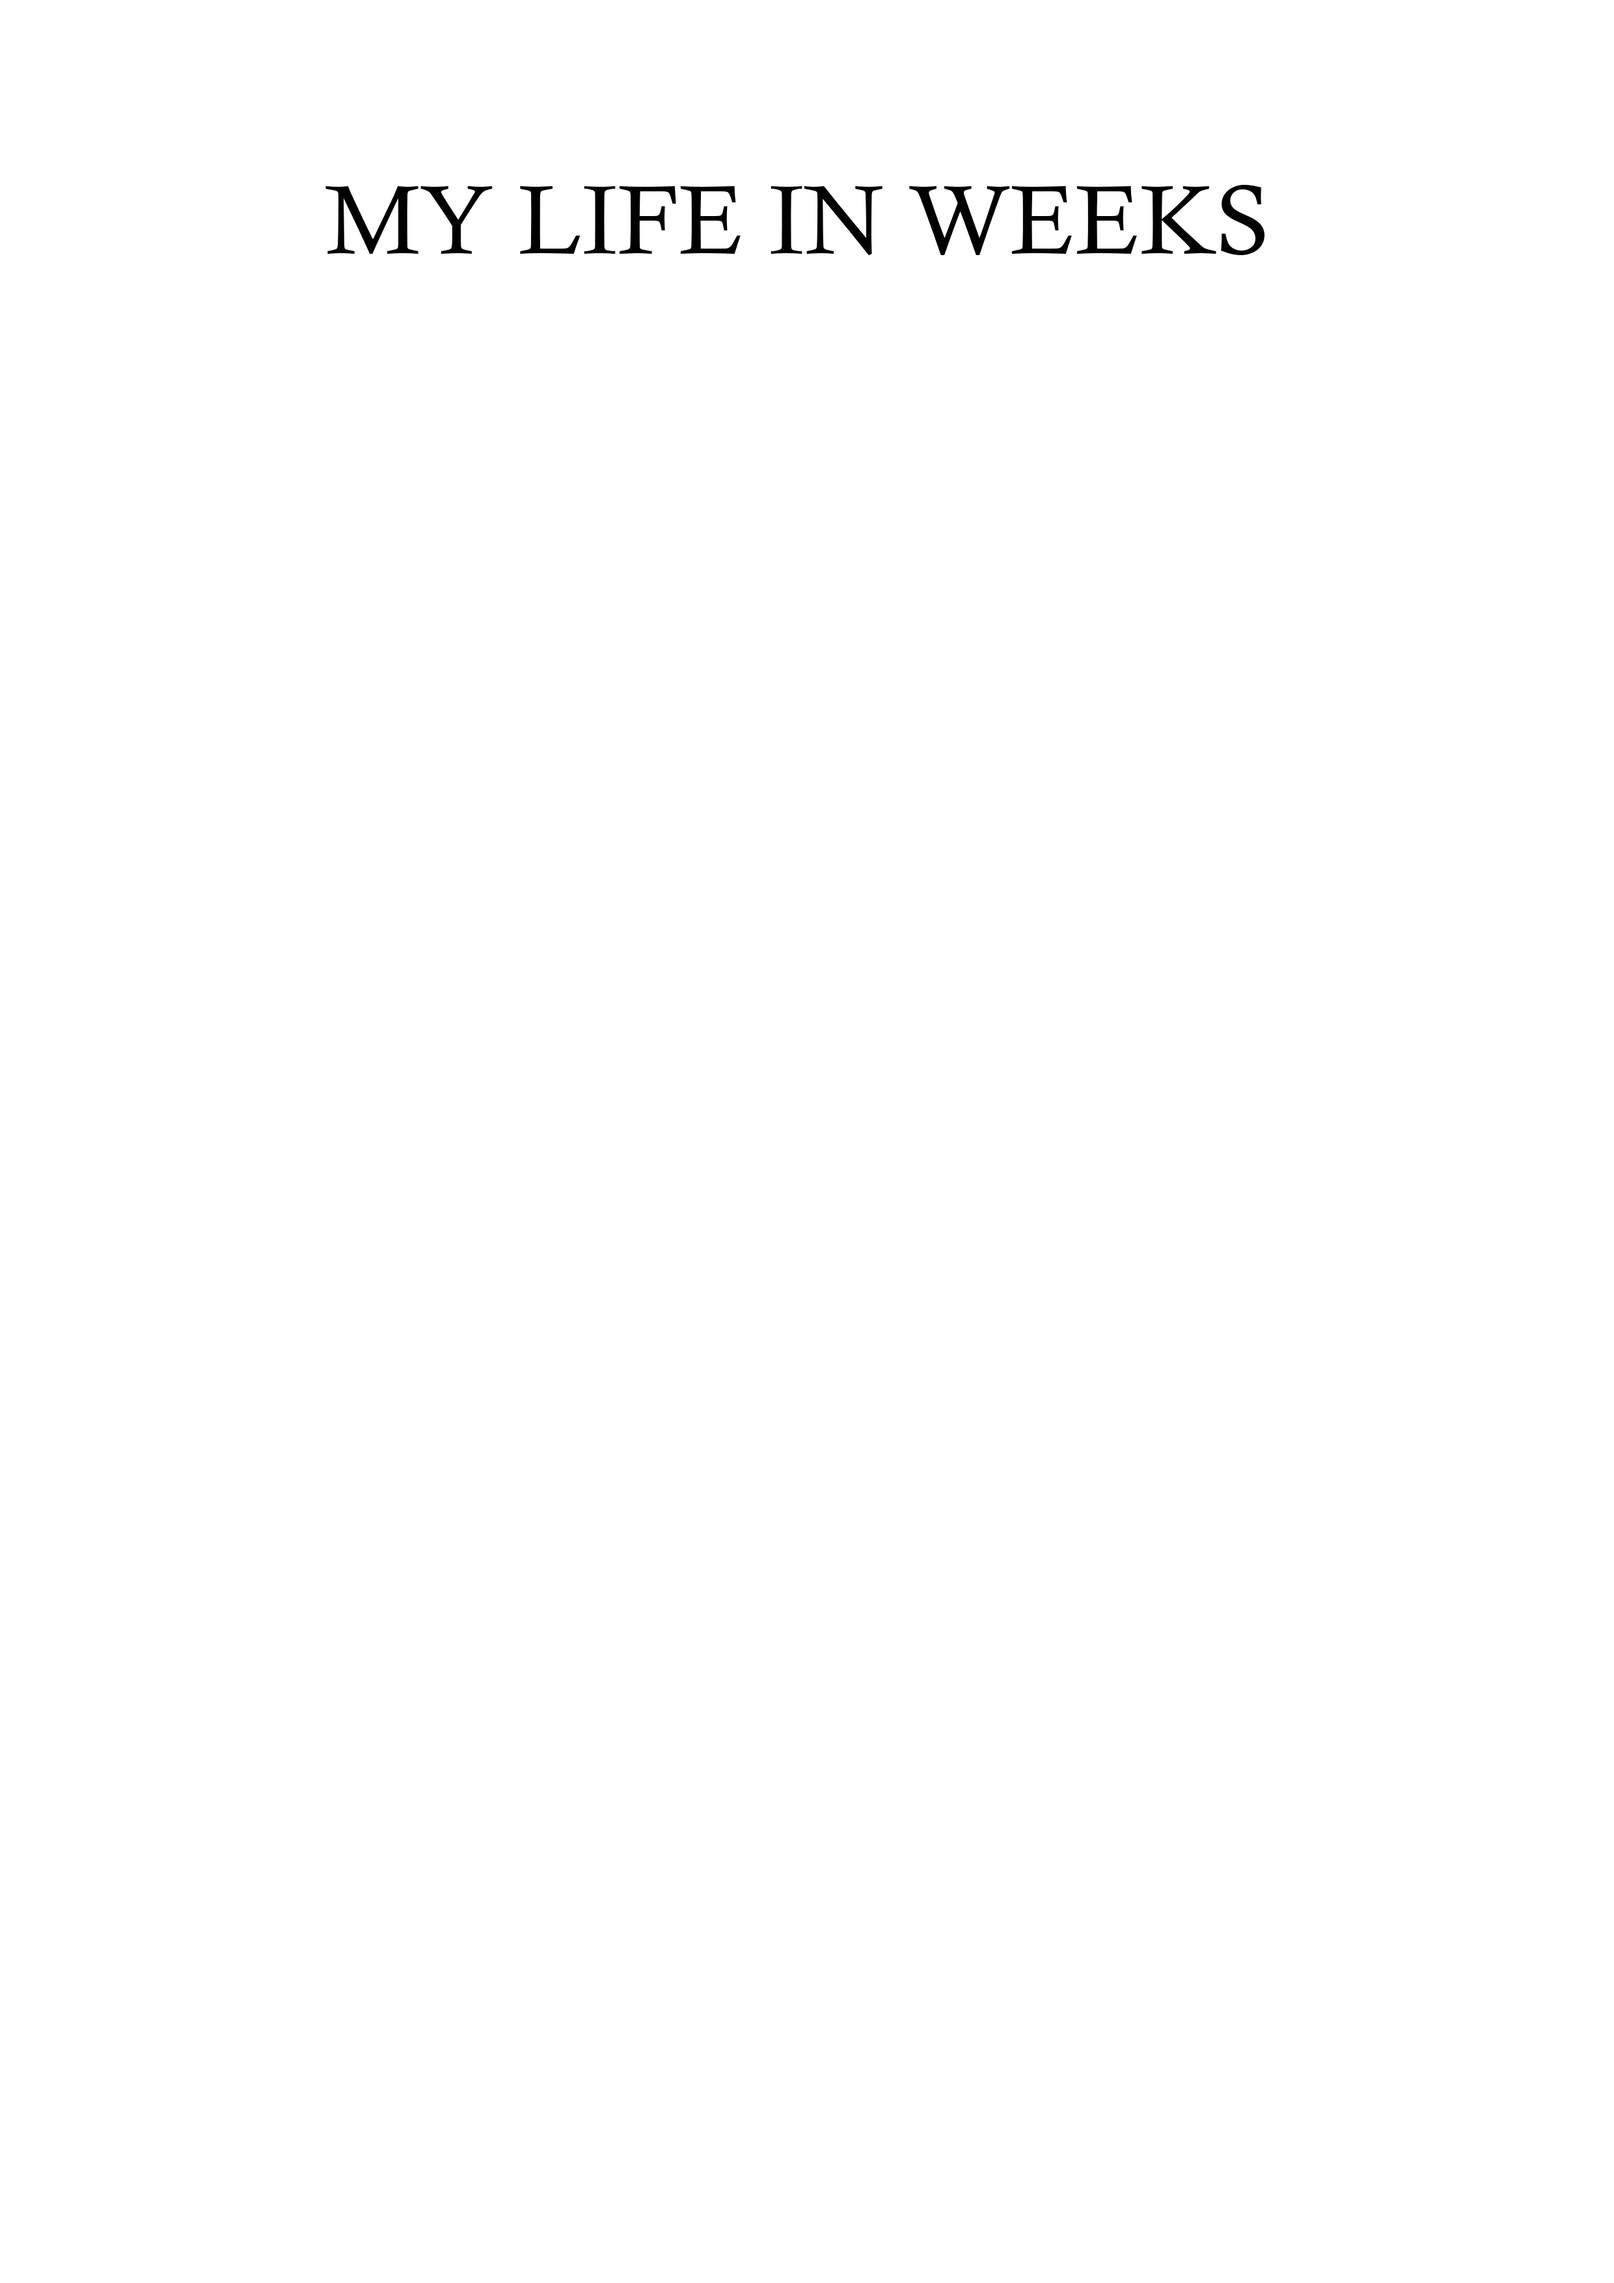
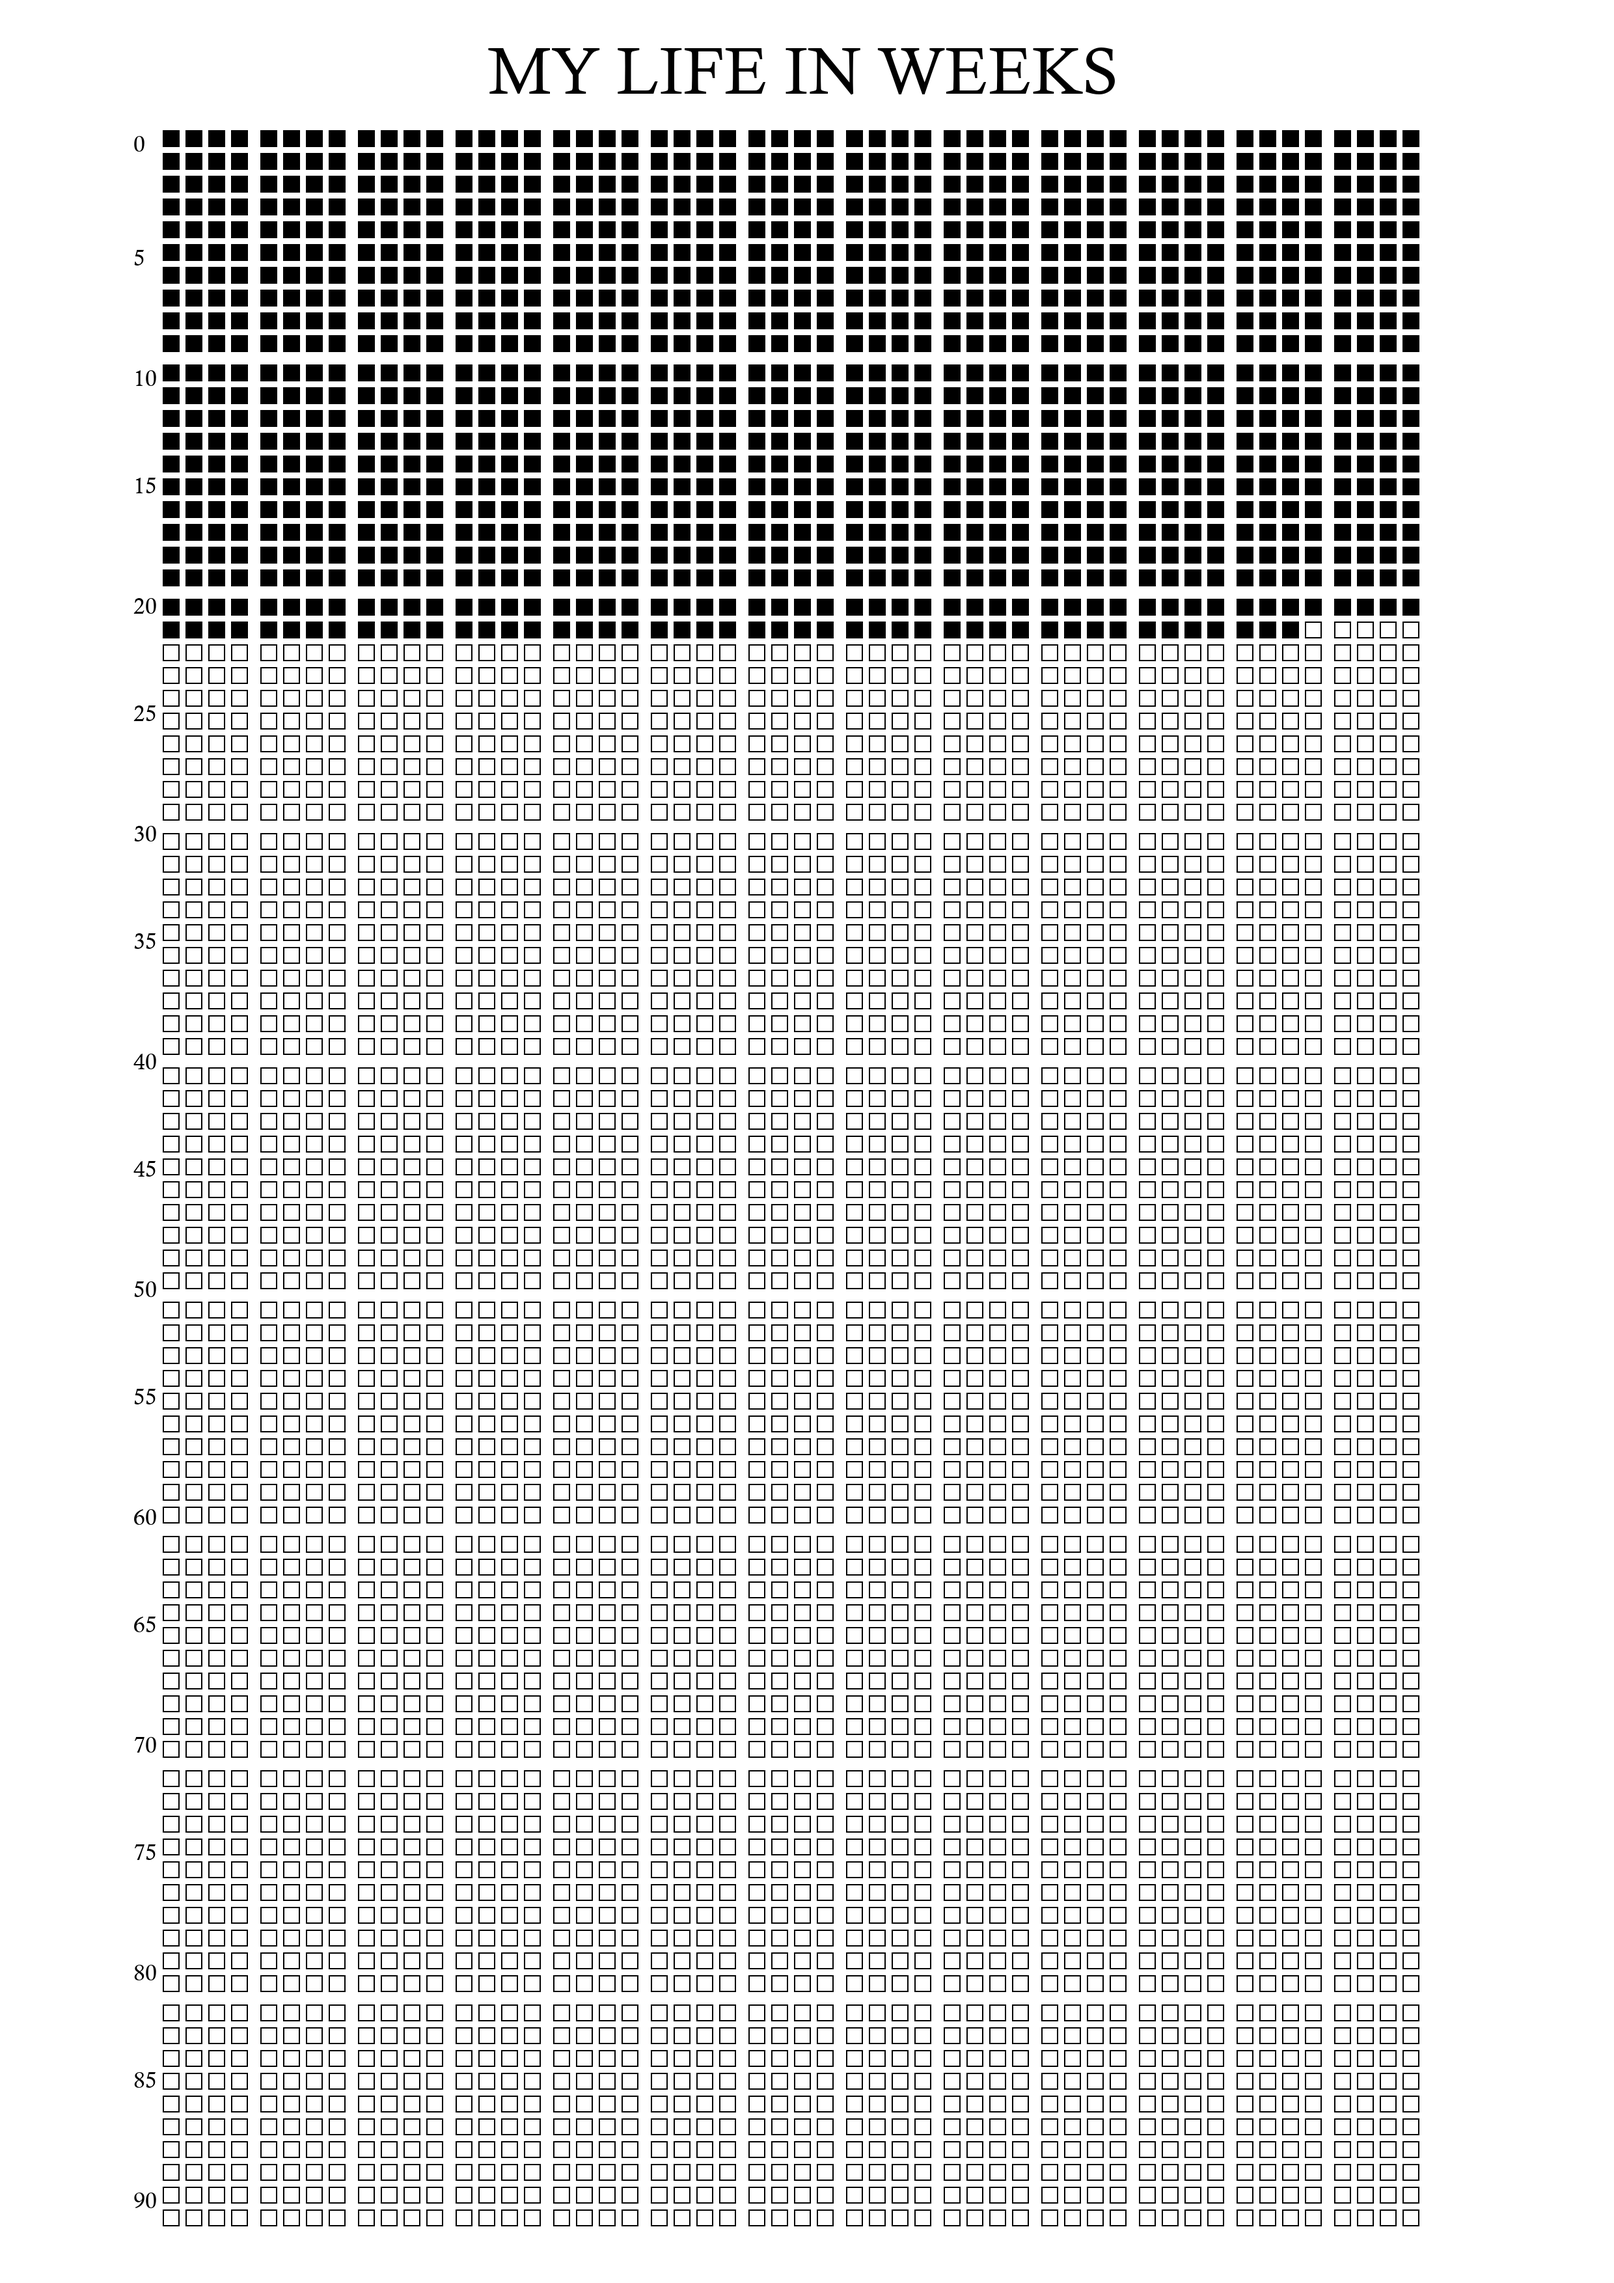
Added squares and numbers

Changed region(s): [[0.0931, 0.0, 0.9004, 0.9632]]

diff --git a/Models/LifeCalendar.py b/Models/LifeCalendar.py
@@ -1,0 +1,153 @@
+from datetime import date
+from PIL import Image, ImageDraw, ImageFont
+import calendar
+from Models.Birthdate import Birthdate
+
+class LifeCalendar:
+
+    #image dimension
+
+    #A4
+    width = 2480
+    height = 3508
+
+    #A3
+    #width = 3508
+    #height = 4961
+
+    pathnameImage = "Img\My life in weeks.png"
+    pathnameFont = "Fonts\CALIST.TTF"
+
+    #misures in pixels
+    titleFontSize = 100
+    numberFontSize = 35
+    numberWidth = 45
+    startTextPosition = (750,50)
+    startSquaresPositionX = 250
+    startSquaresPositionY = 200
+    squaresDimension = 25
+    squaresMargin = 10
+    spaceBetweenMonthsYears = 10
+
+    years = 90
+
+    def __init__(self, birthdate: Birthdate):
+        #overwrite the content
+        self.img = Image.new('RGB', (self.width, self.height), 'white')
+        self.img.save(self.pathnameImage)
+        self.birthdate = birthdate
+
+    #create My life in weeks calendar
+    def fillCalendar(self):
+        #add text
+        self.addTitle()
+
+        #add squares
+        self.addSquares()
+
+        #add numbers
+        self.addNumbers()
+
+    #add title to image
+    def addTitle(self):
+        d = ImageDraw.Draw(self.img)
+        fnt = ImageFont.truetype(self.pathnameFont, self.titleFontSize)
+        d.text(self.startTextPosition, "MY LIFE IN WEEKS", font=fnt, fill=(0, 0, 0))
+ 
+        self.img.save(self.pathnameImage)
+
+    #add squares to image
+    def addSquares(self):
+        endMonthFlag = 0
+        endTenYearFlag = 0
+
+        for y in range(self.years):
+            for x in range(52):
+            
+                #space between months
+                if((x != 0) & (x % 4 == 0)):
+                    endMonthFlag += 1
+
+                #space between years
+                #(y/10 != endTenYearFlag) because it needs to increment only one time when (y % 10 == 0)
+                if((y != 0) & (y % 10 == 0) & (y/10 != endTenYearFlag)):
+                    endTenYearFlag += 1
+
+                positionX = self.startSquaresPositionX + x * (self.squaresMargin + self.squaresDimension) + endMonthFlag * self.spaceBetweenMonthsYears 
+                positionY = self.startSquaresPositionY + y * (self.squaresMargin + self.squaresDimension) + endTenYearFlag * self.spaceBetweenMonthsYears
+
+                #choose black or white square
+                isBlack = self.isBlackSquare(x, y)
+                if(isBlack):
+                    color = 'black'
+                else: 
+                    color = 'white'
+
+                #draw the square
+                #positionX, positionY is the left top corner
+                self.drawSquare(positionX, positionY, color)
+
+            endMonthFlag = 0
+
+        self.img.save(self.pathnameImage)
+
+    def isBlackSquare(self, week, year):
+        todayDate = date.today()
+        todayYear = todayDate.year
+        if(self.birthdate.date.year + year + 1 < todayYear):
+            return True
+        elif(self.birthdate.date.year + year + 1 == todayYear):
+            #calculate the weeks differece between today and birthday
+            birthdate = date(
+                self.birthdate.date.year + year + 1, 
+                self.birthdate.date.month, 
+                self.birthdate.date.day)
+            delta = todayDate - birthdate
+            weeks = int(delta.days/7)
+            if(weeks - week > 0):
+                return True
+            else:
+                return False
+        else:
+            return False
+
+    #draw the image
+    def drawSquare(self, positionX, positionY, color):
+        d = ImageDraw.Draw(self.img)
+        #(x0,y0) is the left top corner of the rectangle
+        #(x1,y1) is the rigth bottom corner of the rectangle
+        d.rectangle((
+            #x0
+            positionX,
+            #y0 
+            positionY,
+            #x1
+            positionX + self.squaresDimension,
+            #y1 
+            positionY + self.squaresDimension), 
+            #border color
+            outline='black',
+            #square color
+            fill=color,
+            #The line width, in pixels
+            width=2)
+
+    def addNumbers(self):
+        for y in range(self.years + 1):
+
+            endTenYearFlag = 0
+            #space between years
+            #(y/10 != endTenYearFlag) because it needs to increment only one time when (y % 10 == 0)
+            if((y != 0) & (y % 10 == 0) & (y/10 != endTenYearFlag)):
+                endTenYearFlag += 1
+            positionY = self.startSquaresPositionY + y * (self.squaresMargin + self.squaresDimension) + endTenYearFlag * self.spaceBetweenMonthsYears
+
+            if(y%5 == 0):
+                d = ImageDraw.Draw(self.img)
+                fnt = ImageFont.truetype(self.pathnameFont, self.numberFontSize)
+                d.text((
+                    self.startSquaresPositionX - self.numberWidth,
+                    positionY
+                    ), str(y), font=fnt, fill=(0, 0, 0))
+        
+                self.img.save(self.pathnameImage)

diff --git a/main.py b/main.py
@@ -1,5 +1,5 @@
 from Models.Birthdate import Birthdate
-from Models.ImageCreator import ImageCreator
+from Models.LifeCalendar import LifeCalendar
 
 #starting point of the application#
 #get the birthdate from input
@@ -10,8 +10,9 @@ try:
 except Exception as e:
     print("\n+++++++++++++++++++++++++++\n"+repr(e))
     print("Exit\n+++++++++++++++++++++++++++")
+    quit()
 
 #create the My life in weeks calendar
-imgCreator = ImageCreator(birthdate)
-imgCreator.createCalendar()
+lifeCalendar = LifeCalendar(birthdate)
+lifeCalendar.fillCalendar()
 

diff --git a/try_to_sketch.py b/try_to_sketch.py
@@ -2,7 +2,7 @@ import matplotlib.pyplot as plt
 import matplotlib.patches as patches
 from PIL import Image
 
-im = Image.open('stinkbug.png')
+im = Image.open('Img\My life in weeks.png')
 
 # Create figure and axes
 fig, ax = plt.subplots()

diff --git a/Models/Birthdate.py b/Models/Birthdate.py
@@ -4,7 +4,7 @@ class Birthdate:
 
     def __init__(self, date):
         try:
-            self.date = self.checkFormat(date)
+            self.date: datetime = self.checkFormat(date)
         except:
             raise
 
